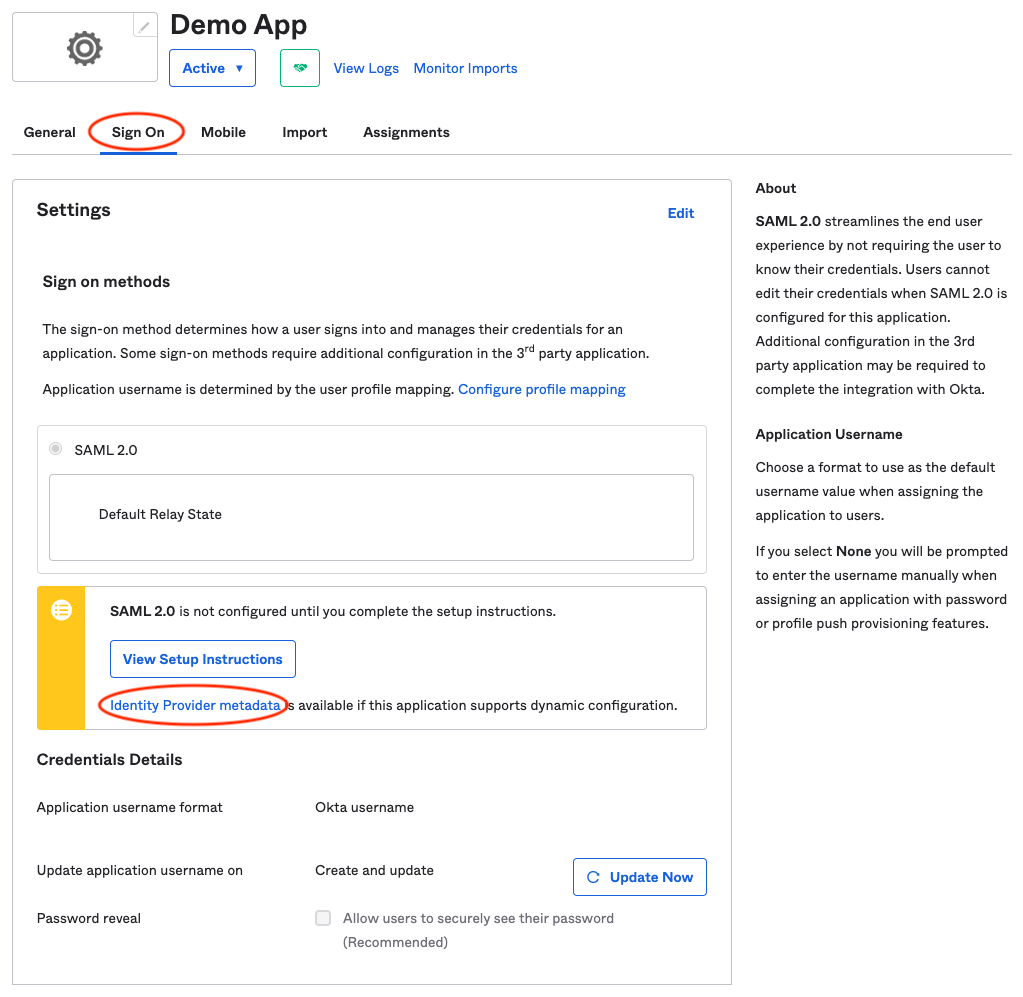
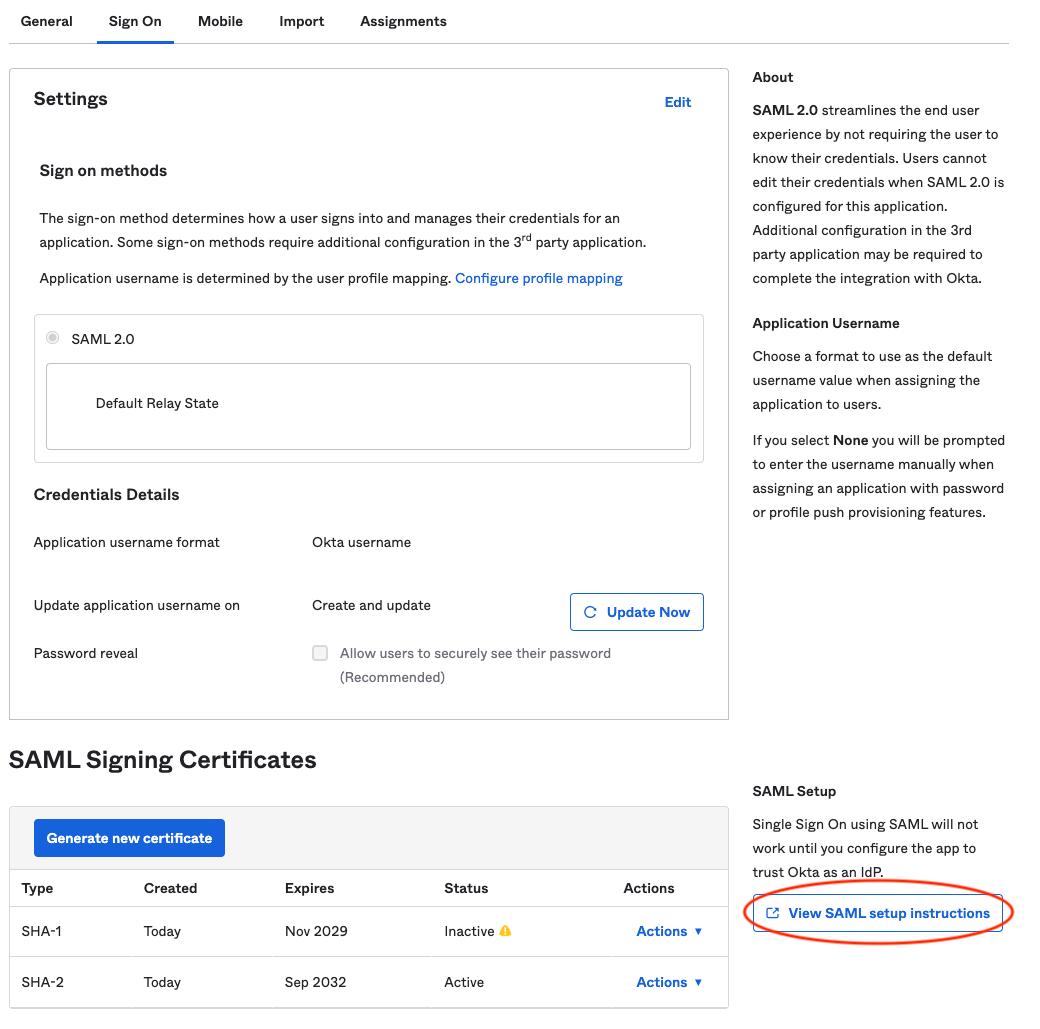
update okta wizard with screenshots and form input types

diff --git a/src/app/components/IdentityProviderWizard/Wizards/Providers/Okta/SAML/index.tsx b/src/app/components/IdentityProviderWizard/Wizards/Providers/Okta/SAML/index.tsx
@@ -41,7 +41,6 @@ export const OktaWizardSaml: FC = () => {
     protocol: Protocols.SAML,
     preface: "okta-saml",
   });
-  const [metadataUrl, setMetadataUrl] = useState("");
 
   // Complete
   const [isValidating, setIsValidating] = useState(false);
@@ -75,40 +74,33 @@ export const OktaWizardSaml: FC = () => {
     navigateToBasePath();
   };
 
-  const handleFormSubmit = async ({
-    url,
-  }: {
-    url: string;
-  }): Promise<API_RETURN> => {
-    // make call to submit the URL and verify it
-    setMetadataUrl(url);
+  const handleFormSubmit = async ({ idpMetadata }: { idpMetadata: string }) => {
+    const fd = new FormData();
+    fd.append("providerId", "saml");
+    fd.append("file", idpMetadata);
+
+    console.log(fd);
 
     try {
-      const payload = {
-        fromUrl: url,
-        providerId: "saml",
-        realm: getRealm(),
-      };
+      const resp = await Axios.post(identifierURL, fd);
 
-      const resp = await Axios.post(identifierURL, payload);
+      if (resp.status === 200) {
+        setMetadata({ ...SamlIDPDefaults, ...resp.data });
+        setIsFormValid(true);
 
-      setMetadata({
-        ...SamlIDPDefaults,
-        ...resp,
-      });
-      setIsFormValid(true);
-
-      return {
-        status: API_STATUS.SUCCESS,
-        message: `Configuration successfully validated with ${idpCommonName}. Continue to next step.`,
-      };
-    } catch (e) {
-      setIsFormValid(false);
-      return {
-        status: API_STATUS.ERROR,
-        message: `Configuration validation failed with ${idpCommonName}. Check URL and try again.`,
-      };
+        return {
+          status: API_STATUS.SUCCESS,
+          message: `Configuration successfully validated with ${idpCommonName}. Continue to next step.`,
+        };
+      }
+    } catch (err) {
+      console.log(err);
     }
+
+    return {
+      status: API_STATUS.ERROR,
+      message: `Configuration validation failed with ${idpCommonName}. Check file and try again.`,
+    };
   };
 
   const createIdP = async () => {
@@ -209,7 +201,8 @@ export const OktaWizardSaml: FC = () => {
       id: 6,
       name: "Upload Okta IdP Information",
       component: (
-        <Step6 handleFormSubmit={handleFormSubmit} url={metadataUrl} />
+        // <Step6 handleFormSubmit={handleFormSubmit} url={metadataUrl} />
+        <Step6 handleFormSubmit={handleFormSubmit} />
       ),
       enableNext: isFormValid,
       hideCancelButton: true,

diff --git a/src/app/components/IdentityProviderWizard/Wizards/Providers/Okta/SAML/Steps/6.tsx b/src/app/components/IdentityProviderWizard/Wizards/Providers/Okta/SAML/Steps/6.tsx
@@ -1,38 +1,33 @@
 import React, { FC } from "react";
-import {
-  InstructionProps,
-  Step,
-  StepImage,
-  UrlCard,
-  UrlForm,
-} from "@wizardComponents";
+import { FileCard, InstructionProps, Step, StepImage } from "@wizardComponents";
 import * as Images from "@app/images/okta/saml";
 
 import { API_RETURN_PROMISE } from "@app/configurations/api-status";
+import { FileText } from "@app/components/IdentityProviderWizard/Wizards/components/forms";
 
 type Props = {
-  url: string;
-  handleFormSubmit: ({ url }: { url: string }) => API_RETURN_PROMISE;
+  handleFormSubmit: ({
+    idpMetadata,
+  }: {
+    idpMetadata: string;
+  }) => API_RETURN_PROMISE;
 };
 
-export const Step6: FC<Props> = ({ url, handleFormSubmit }) => {
+export const Step6: FC<Props> = ({ handleFormSubmit }) => {
   const instructions: InstructionProps[] = [
     {
-      text: 'In the "Sign On" section, right click and click to copy the "Identity Provider metadata" link and paste below.',
+      text: 'In the "Sign On" section, click the "View SAML setup instructions" link.',
       component: <StepImage src={Images.OktaSaml8} alt="Step 6.1" />,
     },
     {
-      component: <div>Enter and validate the Identity Provider metadata.</div>,
+      text: 'A second window will open with the SAML setup instructions. Find the "Optional" section with the textbox containing the IDP metadata. Copy the entire contents of the text box and paste it below.',
+      component: <StepImage src={Images.OktaSaml9} alt="Step 6.1" />,
     },
     {
       component: (
-        <UrlCard>
-          <UrlForm
-            url={url}
-            urlLabel="Provider URL"
-            handleFormSubmit={handleFormSubmit}
-          />
-        </UrlCard>
+        <FileCard title="Validate IDP Metadata">
+          <FileText handleFormSubmit={handleFormSubmit} />
+        </FileCard>
       ),
     },
   ];

diff --git a/src/app/images/okta/saml/index.ts b/src/app/images/okta/saml/index.ts
@@ -7,6 +7,7 @@ import OktaSaml6 from "./okta_saml_6.png";
 import OktaSaml7 from "./okta_saml_7.png";
 import OktaSaml7A from "./okta_saml_7a.png";
 import OktaSaml8 from "./okta_saml_8.png";
+import OktaSaml9 from "./okta_saml_9.png";
 
 export {
   OktaSaml1,
@@ -18,4 +19,5 @@ export {
   OktaSaml7,
   OktaSaml7A,
   OktaSaml8,
+  OktaSaml9,
 };
